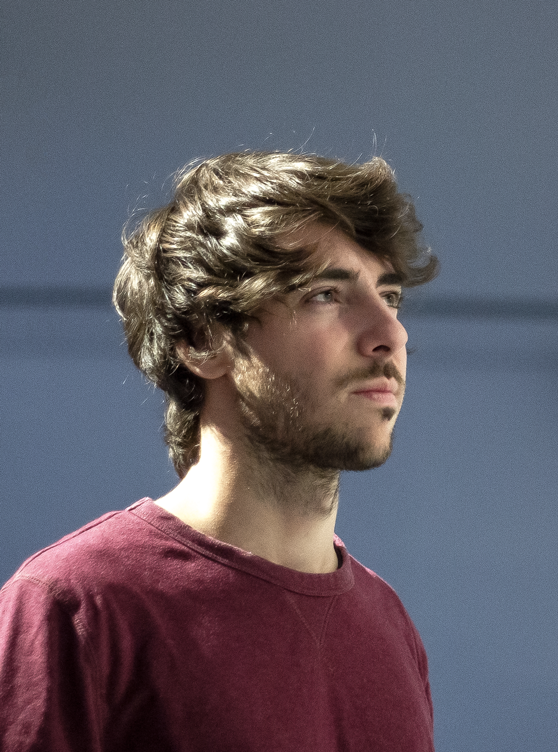
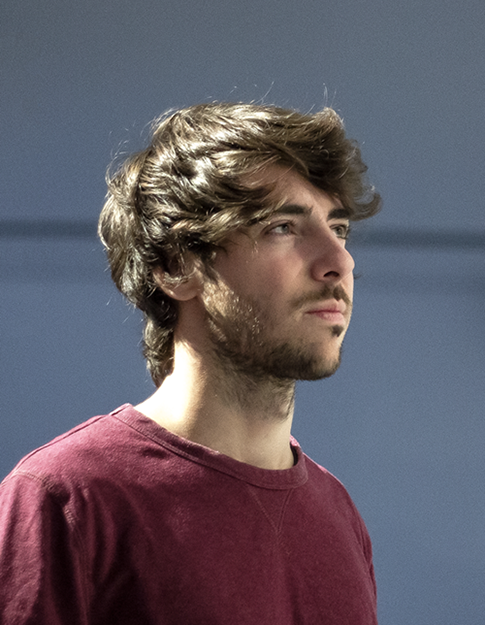
css update

diff --git a/assets/style.min.css b/assets/style.min.css
@@ -1,1 +1,1 @@
-html{box-sizing:border-box}*,*::after,*::before{box-sizing:inherit}html,body{background:black}body{padding:20px 20px 20px 20px;-webkit-font-smoothing:antialiased;font-weight:400}.container{max-width:100%;margin-left:auto;margin-right:auto;background-color:white}.container::after{clear:both;content:"";display:table}header #brand{float:left}header #brand img{margin:30px 0 0 30px;height:60px}header #nav{float:right}header #nav ul{z-index:999;position:fixed;top:40px;right:30px}header #nav ul li{display:inline}header #nav ul img{width:24px}header #nav ul li a{padding:0 10px 0 10px;text-transform:uppercase;font-size:0.7em;font-weight:700;color:black;text-decoration:none}.clearfix:after{content:"";display:table;clear:both}h1{margin-top:120px;text-align:center;font-family:"futura-pt";font-weight:400;font-style:normal;line-height:0.6em;font-size:5.5em;letter-spacing:0.1em}h1 p{margin-bottom:130px;text-align:center;font-family:"adobe-garamond-pro";font-weight:400;font-style:italic;font-size:0.55em;letter-spacing:normal}.first{padding:4em;max-width:1240px}.first .avatar{background-color:white;float:left;max-width:550px;max-width:670px;margin-right:2em;margin-bottom:4em;border-radius:4px;box-shadow:0 1px 1px rgba(0,0,0,0.1),0 8px 16px rgba(0,0,0,0.05)}.first p{font-family:"futura-pt";font-weight:400;font-style:normal;line-height:1.6em;font-size:1.5em;letter-spacing:0.5px;text-align:justify}.first .lead{margin-top:0;margin-bottom:1.6em;font-family:"adobe-garamond-pro";font-weight:400;font-style:normal;line-height:1.5em;font-size:1.8em;letter-spacing:normal;text-align:justify}.row{float:left;display:block;margin-right:2.35765%;width:100%;margin:30px 0}.row:last-child{margin-right:0}.row .row-title{float:left;display:block;margin-right:2.35765%;width:23.23176%;width:18%;padding-left:9.5em;text-align:left;color:#b0976d;text-transform:uppercase;font-size:0.85em;font-family:"futura-pt",sans-serif;font-style:normal;font-weight:500;letter-spacing:0.15em}.row .row-title:last-child{margin-right:0}.row .row-content{margin-left:8.5298%;float:left;display:block;margin-right:2.35765%;width:65.88078%}.row .row-content:last-child{margin-right:0}.first.row{margin:0 auto 4em auto;float:none}.last.row{margin-bottom:0}.row.experience{margin-bottom:0px}.row.experience .row-content>.dropdown{display:none}.row.experience .row-content>.dropdown>.dropdown-title{border-bottom:none}.row.education{display:none;margin-top:0px}.ul-col{float:left;display:block;margin-right:2.35765%;width:31.76157%;margin:0;padding:0;list-style-type:none}.ul-col:last-child{margin-right:0}.ul-col li{padding:0 10px 20px 10px;text-decoration:none}#gallery{margin-bottom:4em;width:100%;overflow:hidden;white-space:nowrap}#gallery .slides-heading p{text-align:left;color:#b0976d;text-transform:uppercase;font-size:0.6em;font-family:"futura-pt",sans-serif;font-style:normal;font-weight:500;letter-spacing:0.15em}#gallery .slides{height:447px;width:100%;overflow-x:auto;white-space:nowrap}#gallery .slide{display:inline-block;margin-left:1%;margin-right:1%;width:498px;height:auto;border-radius:4px;background-color:#fff;cursor:pointer;box-shadow:0 1px 1px rgba(0,0,0,0.1),0 8px 16px rgba(0,0,0,0.05);-webkit-transform:translateZ(0);transform:translateZ(0);-webkit-transition:box-shadow 0.3s ease;-moz-transition:box-shadow 0.3s ease;-ms-transition:box-shadow 0.3s ease;-o-transition:box-shadow 0.3s ease;transition:box-shadow 0.3s ease}#gallery .slide-media{background-size:cover;border-radius:4px 4px 0 0;height:348px}#gallery .slide:hover{-webkit-transition:box-shadow 0.3s ease;-moz-transition:box-shadow 0.3s ease;-ms-transition:box-shadow 0.3s ease;-o-transition:box-shadow 0.3s ease;transition:box-shadow 0.3s ease;box-shadow:0 1px 1px rgba(0,0,0,0.1),0 12px 22px rgba(0,0,0,0.15)}#gallery .slide-title{float:left;padding:0.7em;width:100%;font-family:"futura-pt",sans-serif;color:black;text-decoration:none;font-style:normal;font-weight:700;font-size:1.4em}#gallery .slide-position{float:right;padding:0.55em 0 0.55em 0;text-align:right;text-transform:uppercase;font-size:0.6em;font-family:"futura-pt",sans-serif;font-style:normal;font-weight:500;letter-spacing:0.15em;color:#b0976d}#gallery #slide-1{margin-left:2em}#gallery #slide-8{margin-right:2em}.sub-title{margin:0;padding:0 0 10px 0;line-height:30px;text-transform:uppercase;color:#737373}#current-position{float:left;display:block;margin-right:2.35765%;width:100%}#current-position:last-child{margin-right:0}#current-position #current-employer{float:left;display:block;margin-right:2.35765%;width:6.17215%;padding-bottom:15px}#current-position #current-employer:last-child{margin-right:0}#current-position #current-employer #employer-logo img{width:64px}#current-position #employment-details{float:left;display:block;margin-right:2.35765%;width:91.4702%;margin-left:4%;width:80%}#current-position #employment-details:last-child{margin-right:0}#current-position #employment-details #current-role strong{font-size:1em;font-size:1.2em}#current-position #job-description{float:left;display:block;margin-right:2.35765%;width:100%}#current-position #job-description:last-child{margin-right:0}#current-position #job-description p{width:80%}#work{float:left;display:block;margin-right:2.35765%;width:100%;padding:0 3%;background-color:#4c4c4c}#work:last-child{margin-right:0}#work .work-header{text-align:center;margin-top:30px}#work .work-header .work-header-bg{z-index:-1;font-size:20em;font-style:normal;font-weight:800;color:#545454}#work .work-header .work-header-title{margin-top:-260px;font-size:2.9em;text-transform:uppercase;letter-spacing:0.17em;color:white}#work .work-header .work-header-subtext{padding-bottom:100px}#work .work-header .work-header-subtext img{width:146px;margin:15 auto}#work-grid{padding:10px;width:100%;margin:0 auto}#work-grid .grid-row:after{content:" ";padding:10px}#work-grid .grid-row .grid-item{background-position:center;background-size:cover;border-radius:4px;display:block;background-color:white;cursor:pointer;box-shadow:0 1px 1px rgba(0,0,0,0.1),0 8px 16px rgba(0,0,0,0.05);-webkit-transform:translateZ(0);transform:translateZ(0);-webkit-transition:box-shadow 0.3s ease;-moz-transition:box-shadow 0.3s ease;-ms-transition:box-shadow 0.3s ease;-o-transition:box-shadow 0.3s ease;transition:box-shadow 0.3s ease}#work-grid .grid-row .grid-item img{width:100%;border-radius:4px}#work-grid .grid-row .work-overlay{margin:0;position:absolute;top:0;left:0;display:none;background-color:rgba(0,0,0,0.8);text-align:center;border-radius:4px;-webkit-transition:box-shadow 0.3s ease;-moz-transition:box-shadow 0.3s ease;-ms-transition:box-shadow 0.3s ease;-o-transition:box-shadow 0.3s ease;transition:box-shadow 0.3s ease;box-shadow:0 1px 1px rgba(0,0,0,0.1),0 12px 22px rgba(0,0,0,0.15);width:100%;height:100%}#work-grid .grid-row .work-overlay a{display:block;padding-top:34%;color:white;text-decoration:none;vertical-align:middle;font-family:"futura-pt";font-weight:400;font-style:normal;line-height:1.6em;font-size:1.4em;letter-spacing:0.5px}.overlay{position:fixed;width:100%;height:100%;top:0;left:0;background:black}.overlay .overlay-close{width:25px;height:25px;position:absolute;right:30px;top:40px;overflow:hidden;border:none;background:url(../public/cross.svg) no-repeat center center;text-indent:200%;color:transparent;outline:none;z-index:100}.overlay nav{text-align:center;position:relative;top:50%;height:60%;-webkit-transform:translateY(-50%);transform:translateY(-50%)}.overlay ul{list-style:none;padding:0;margin:0 auto;display:inline-block;height:100%;position:relative}.overlay ul li{display:block;height:20%;height:calc(100% / 5);min-height:54px;-webkit-backface-visibility:hidden;backface-visibility:hidden}.overlay ul li a{font-size:54px;font-weight:300;display:block;color:#fff;-webkit-transition:color 0.2s;transition:color 0.2s;text-decoration:none}.overlay ul li a:hover,.overlay ul li a:focus{color:#f0f0f0;text-decoration:none}.overlay-scale{visibility:hidden;opacity:0;-webkit-transform:scale(0.9);transform:scale(0.9);-webkit-transition:-webkit-transform 0.2s, opacity 0.2s, visibility 0s 0.2s;transition:transform 0.2s, opacity 0.2s, visibility 0s 0.2s}.overlay-scale.open{visibility:visible;opacity:1;-webkit-transform:scale(1);transform:scale(1);-webkit-transition:-webkit-transform 0.4s, opacity 0.4s;transition:transform 0.4s, opacity 0.4s}@media screen and (max-height: 30.5em){.overlay nav{height:70%;font-size:34px}.overlay ul li{min-height:34px}}@media screen and (max-width: 1000px){.mobile{display:block}.mobile .grid-item{float:left;display:block;margin-right:2.35765%;width:48.82117%}.mobile .grid-item:last-child{margin-right:0}.first{padding:4em 4em 0 4em}.first.row{margin-bottom:0}.avatar{min-width:100%;margin-bottom:2em !important}.desktop{display:none}p{float:none;clear:both}.slides-heading,.slide-title{font-size:2em}.slides-heading{margin:0 1em}.row-title{font-size:2em;width:100% !important;text-align:left !important}.row-content{margin-left:3.58% !important}.ul-col{font-size:2em;width:auto}}@media screen and (min-width: 1001px){.mobile{display:none}.desktop{display:block}.desktop .grid-item{float:left;display:block;margin-right:2.35765%;width:31.76157%}.desktop .grid-item:last-child{margin-right:0}.slides-heading{margin:0 2em}}
+html{box-sizing:border-box}*,*::after,*::before{box-sizing:inherit}html,body{background:black}body{padding:20px 20px 20px 20px;-webkit-font-smoothing:antialiased;font-weight:400}.container{max-width:100%;margin-left:auto;margin-right:auto;background-color:white}.container::after{clear:both;content:"";display:table}header #brand{float:left}header #brand img{margin:30px 0 0 30px;height:60px}header #nav{float:right}header #nav ul{z-index:998;position:fixed;top:40px;right:30px}header #nav ul li{display:inline}header #nav ul img{width:24px}header #nav ul li a{padding:0 10px 0 10px;text-transform:uppercase;font-size:0.7em;font-weight:700;color:black;text-decoration:none}.clearfix:after{content:"";display:table;clear:both}h1{margin-top:120px;text-align:center;font-family:"futura-pt";font-weight:400;font-style:normal;line-height:0.6em;font-size:5.5em;letter-spacing:0.1em}h1 p{margin-bottom:130px;text-align:center;font-family:"adobe-garamond-pro";font-weight:400;font-style:italic;font-size:0.55em;letter-spacing:normal}.first{padding:4em;max-width:1100px}.first .avatar{background-color:white;float:left;max-width:485px;max-width:auto;margin-right:2em;margin-bottom:1em;border-radius:4px;box-shadow:0 1px 1px rgba(0,0,0,0.1),0 8px 16px rgba(0,0,0,0.05)}.first p{font-family:"futura-pt";font-weight:400;font-style:normal;line-height:1.55em;font-size:1.3em;letter-spacing:0.5px;text-align:justify}.first .lead{margin-top:0.3em;margin-bottom:1.6em;font-family:"adobe-garamond-pro";font-weight:400;font-style:normal;line-height:1.45em;font-size:1.65em;letter-spacing:normal;text-align:justify}.row{float:left;display:block;margin-right:2.35765%;width:100%;margin:30px 0}.row:last-child{margin-right:0}.row .row-title{float:left;display:block;margin-right:2.35765%;width:23.23176%;width:18%;padding-left:9.5em;text-align:left;color:#b0976d;text-transform:uppercase;font-size:0.85em;font-family:"futura-pt",sans-serif;font-style:normal;font-weight:500;letter-spacing:0.15em}.row .row-title:last-child{margin-right:0}.row .row-content{margin-left:8.5298%;float:left;display:block;margin-right:2.35765%;width:65.88078%}.row .row-content:last-child{margin-right:0}.first.row{margin:0 auto 0 auto;float:none}.last.row{margin-bottom:0}.row.experience{margin-bottom:0px}.row.experience .row-content>.dropdown{display:none}.row.experience .row-content>.dropdown>.dropdown-title{border-bottom:none}.row.education{display:none;margin-top:0px}.ul-col{float:left;display:block;margin-right:2.35765%;width:31.76157%;margin:0;padding:0;list-style-type:none}.ul-col:last-child{margin-right:0}.ul-col li{padding:0 10px 20px 10px;text-decoration:none}#gallery{margin-bottom:4em;width:100%;overflow:hidden;white-space:nowrap}#gallery .slides-heading p{color:black;font-family:"adobe-garamond-pro";font-weight:400;font-style:normal;font-size:2.5em;letter-spacing:normal;margin:1em 0 0 0}#gallery .bar{width:14px;height:2px;background:#b0976d;margin:2em 0}#gallery .slides{height:447px;width:100%;overflow-x:auto;white-space:nowrap}#gallery .slide{display:inline-block;margin-left:1%;margin-right:1%;width:498px;height:auto;border-radius:4px;background-color:#fff;cursor:pointer;box-shadow:0 1px 1px rgba(0,0,0,0.1),0 8px 16px rgba(0,0,0,0.05);-webkit-transform:translateZ(0);transform:translateZ(0);-webkit-transition:box-shadow 0.3s ease;-moz-transition:box-shadow 0.3s ease;-ms-transition:box-shadow 0.3s ease;-o-transition:box-shadow 0.3s ease;transition:box-shadow 0.3s ease}#gallery .slide-media{background-size:cover;border-radius:4px 4px 0 0;height:348px}#gallery .slide:hover{-webkit-transition:box-shadow 0.3s ease;-moz-transition:box-shadow 0.3s ease;-ms-transition:box-shadow 0.3s ease;-o-transition:box-shadow 0.3s ease;transition:box-shadow 0.3s ease;box-shadow:0 1px 1px rgba(0,0,0,0.1),0 12px 22px rgba(0,0,0,0.15)}#gallery .slide-title{float:left;padding:0.7em;width:100%;font-family:"futura-pt",sans-serif;color:black;text-decoration:none;font-style:normal;font-weight:700;font-size:1.4em}#gallery .slide-position{float:right;padding:0.55em 0 0.55em 0;text-align:right;text-transform:uppercase;font-size:0.6em;font-family:"futura-pt",sans-serif;font-style:normal;font-weight:500;letter-spacing:0.15em;color:#b0976d}#gallery #slide-1{margin-left:2em}#gallery #slide-8{margin-right:2em}.sub-title{margin:0;padding:0 0 10px 0;line-height:30px;text-transform:uppercase;color:#737373}#current-position{float:left;display:block;margin-right:2.35765%;width:100%}#current-position:last-child{margin-right:0}#current-position #current-employer{float:left;display:block;margin-right:2.35765%;width:6.17215%;padding-bottom:15px}#current-position #current-employer:last-child{margin-right:0}#current-position #current-employer #employer-logo img{width:64px}#current-position #employment-details{float:left;display:block;margin-right:2.35765%;width:91.4702%;margin-left:4%;width:80%}#current-position #employment-details:last-child{margin-right:0}#current-position #employment-details #current-role strong{font-size:1em;font-size:1.2em}#current-position #job-description{float:left;display:block;margin-right:2.35765%;width:100%}#current-position #job-description:last-child{margin-right:0}#current-position #job-description p{width:80%}#work{float:left;display:block;margin-right:2.35765%;width:100%;padding:0 3%;background-color:#4c4c4c}#work:last-child{margin-right:0}#work .work-header{text-align:center;margin-top:30px}#work .work-header .work-header-bg{z-index:-1;font-size:20em;font-style:normal;font-weight:800;color:#545454}#work .work-header .work-header-title{margin-top:-260px;font-size:2.9em;text-transform:uppercase;letter-spacing:0.17em;color:white}#work .work-header .work-header-subtext{padding-bottom:100px}#work .work-header .work-header-subtext img{width:146px;margin:15 auto}#work-grid{padding:10px;width:100%;margin:0 auto}#work-grid .grid-row:after{content:" ";padding:10px}#work-grid .grid-row .grid-item{background-position:center;background-size:cover;border-radius:4px;display:block;background-color:white;cursor:pointer;box-shadow:0 1px 1px rgba(0,0,0,0.1),0 8px 16px rgba(0,0,0,0.05);-webkit-transform:translateZ(0);transform:translateZ(0);-webkit-transition:box-shadow 0.3s ease;-moz-transition:box-shadow 0.3s ease;-ms-transition:box-shadow 0.3s ease;-o-transition:box-shadow 0.3s ease;transition:box-shadow 0.3s ease}#work-grid .grid-row .grid-item img{width:100%;border-radius:4px}#work-grid .grid-row .work-overlay{margin:0;position:absolute;top:0;left:0;display:none;background-color:rgba(0,0,0,0.8);text-align:center;border-radius:4px;-webkit-transition:box-shadow 0.3s ease;-moz-transition:box-shadow 0.3s ease;-ms-transition:box-shadow 0.3s ease;-o-transition:box-shadow 0.3s ease;transition:box-shadow 0.3s ease;box-shadow:0 1px 1px rgba(0,0,0,0.1),0 12px 22px rgba(0,0,0,0.15);width:100%;height:100%}#work-grid .grid-row .work-overlay a{display:block;padding-top:34%;color:white;text-decoration:none;vertical-align:middle;font-family:"futura-pt";font-weight:400;font-style:normal;line-height:1.6em;font-size:1.4em;letter-spacing:0.5px}.overlay{position:fixed;width:100%;height:100%;top:0;left:0;background:black}.overlay .overlay-close{width:25px;height:25px;position:absolute;right:40px;top:50px;overflow:hidden;border:none;background:url(../public/cross.svg) no-repeat center center;text-indent:200%;color:transparent;outline:none}.overlay nav{text-align:center;position:relative;top:50%;height:60%;-webkit-transform:translateY(-50%);transform:translateY(-50%)}.overlay ul{list-style:none;padding:0;margin:0 auto;display:inline-block;height:100%;position:relative}.overlay ul li{display:block;height:20%;height:calc(100% / 5);min-height:54px;-webkit-backface-visibility:hidden;backface-visibility:hidden}.overlay ul li a{font-size:54px;font-weight:300;display:block;color:#fff;-webkit-transition:color 0.2s;transition:color 0.2s;text-decoration:none}.overlay ul li a:hover,.overlay ul li a:focus{color:#b0976d;text-decoration:none}.overlay-scale{visibility:hidden;opacity:0;-webkit-transform:scale(0.9);transform:scale(0.9);-webkit-transition:-webkit-transform 0.2s, opacity 0.2s, visibility 0s 0.2s;transition:transform 0.2s, opacity 0.2s, visibility 0s 0.2s}.overlay-scale.open{z-index:999;visibility:visible;opacity:1;-webkit-transform:scale(1);transform:scale(1);-webkit-transition:-webkit-transform 0.4s, opacity 0.4s;transition:transform 0.4s, opacity 0.4s}@media screen and (max-height: 30.5em){.overlay nav{height:70%;font-size:34px}.overlay ul li{min-height:34px}}@media screen and (max-width: 1000px){.mobile{display:block}.mobile .grid-item{float:left;display:block;margin-right:2.35765%;width:48.82117%}.mobile .grid-item:last-child{margin-right:0}.first{padding:4em 4em 0 4em}.first.row{margin-bottom:0}.avatar{min-width:100%;margin-bottom:2em !important}.desktop{display:none}p{float:none;clear:both}.slides-heading,.slide-title{font-size:2em}.slides-heading{margin:0 1em}.row-title{font-size:2em;width:100% !important;text-align:left !important}.row-content{margin-left:3.58% !important}.ul-col{font-size:2em;width:auto}}@media screen and (min-width: 1001px){.mobile{display:none}.desktop{display:block}.desktop .grid-item{float:left;display:block;margin-right:2.35765%;width:31.76157%}.desktop .grid-item:last-child{margin-right:0}.slides-heading{margin:0 2em}}

diff --git a/assets/style.scss b/assets/style.scss
@@ -18,7 +18,6 @@ body {
     background-color: white;
 }
 
-
 header {
     #brand {
         float: left;
@@ -34,7 +33,7 @@ header {
 
 		ul {
 			@include inline-nav();
-            z-index: 999;
+            z-index: 998;
             position: fixed;
             top: 40px;
             right: 30px;
@@ -88,15 +87,15 @@ h1 {
 
 .first{
     padding: 4em;
-    max-width: 1240px;
+    max-width: 1100px;
 
     .avatar {
         background-color: white;
         float: left;
-        max-width: 550px;
-        max-width: 670px;
+        max-width: 485px;
+        max-width: auto;
         margin-right: 2em;
-        margin-bottom: 4em;
+        margin-bottom: 1em;
         border-radius: 4px;
         box-shadow: 0 1px 1px rgba(0, 0, 0, 0.1), 0 8px 16px rgba(0, 0, 0, 0.05);
     }
@@ -105,20 +104,20 @@ h1 {
         font-family: "futura-pt";
         font-weight: 400;
         font-style: normal;
-        line-height: 1.6em;
-        font-size: 1.5em;
+        line-height: 1.55em;
+        font-size: 1.3em;
         letter-spacing: 0.5px;
         text-align: justify;
     }
 
     .lead {
-        margin-top: 0;
+        margin-top: 0.3em;
         margin-bottom: 1.6em;
         font-family: "adobe-garamond-pro";
         font-weight: 400;
         font-style: normal;
-        line-height: 1.5em;
-        font-size: 1.8em;
+        line-height: 1.45em;
+        font-size: 1.65em;
         letter-spacing: normal;
         text-align: justify;
     }
@@ -135,7 +134,7 @@ h1 {
         text-align: left;
         color: $heading-color;
         text-transform: uppercase;
-				font-size: 0.85em;
+		font-size: 0.85em;
         font-family: "futura-pt",sans-serif;
         font-style: normal;
         font-weight: 500;
@@ -149,7 +148,7 @@ h1 {
 }
 
 .first.row {
-    margin: 0 auto 4em auto;
+    margin: 0 auto 0 auto;
     float: none;
 }
 
@@ -195,17 +194,21 @@ h1 {
     overflow: hidden;
     white-space: nowrap;
 
-    .slides-heading {
-      p {
-        text-align: left;
-        color: $heading-color;
-        text-transform: uppercase;
-				font-size: 0.6em;
-        font-family: "futura-pt",sans-serif;
-        font-style: normal;
-        font-weight: 500;
-        letter-spacing: 0.15em;
-      }
+    .slides-heading p {
+            color: black;
+            font-family: "adobe-garamond-pro";
+            font-weight: 400;
+            font-style: normal;
+            font-size: 2.5em;
+            letter-spacing: normal;
+            margin: 1em 0 0 0;
+    }
+
+    .bar {
+        width: 14px;
+        height: 2px;
+        background: #b0976d;
+        margin: 2em 0;
     }
 
     .slides {
@@ -254,28 +257,28 @@ h1 {
           }
 
 	    .slide-title {
-				float: left;
-        padding: 0.7em;
-        width: 100%;
-        font-family: "futura-pt",sans-serif;
-        color: black;
-        text-decoration: none;
-        font-style: normal;
-        font-weight: 700;
-        font-size: 1.4em;
+    		float: left;
+            padding: 0.7em;
+            width: 100%;
+            font-family: "futura-pt",sans-serif;
+            color: black;
+            text-decoration: none;
+            font-style: normal;
+            font-weight: 700;
+            font-size: 1.4em;
       }
 
 			.slide-position {
-        float: right;
-        padding: 0.55em 0 0.55em 0;
-        text-align: right;
-        text-transform: uppercase;
-				font-size: 0.6em;
-        font-family: "futura-pt",sans-serif;
-        font-style: normal;
-        font-weight: 500;
-        letter-spacing: 0.15em;
-				color: $heading-color;
+                float: right;
+                padding: 0.55em 0 0.55em 0;
+                text-align: right;
+                text-transform: uppercase;
+        		font-size: 0.6em;
+                font-family: "futura-pt",sans-serif;
+                font-style: normal;
+                font-weight: 500;
+                letter-spacing: 0.15em;
+        		color: $heading-color;
 			}
 
     #slide-1 {
@@ -339,16 +342,17 @@ h1 {
     @include span-columns(12);
     padding: 0 3%;
 	background-color: $work-background-color;
+    // background-color: #23252B;
 
     .work-header {
-    	text-align: center;
-      margin-top: 30px;
+        text-align: center;
+        margin-top: 30px;
 
     	.work-header-bg {
-    		z-index: -1;
+    	    z-index: -1;
     		font-size: 20em;
-        font-style: normal;
-        font-weight: 800;
+            font-style: normal;
+            font-weight: 800;
     		color: #545454;
     	}
 
@@ -461,15 +465,14 @@ h1 {
     width: 25px;
     height: 25px;
     position: absolute;
-    right: 30px;
-    top: 40px;
+    right: 40px;
+    top: 50px;
     overflow: hidden;
     border: none;
     background: url(../public/cross.svg) no-repeat center center;
     text-indent: 200%;
     color: transparent;
     outline: none;
-    z-index: 100;
 }
 
 /* Menu style */
@@ -512,7 +515,7 @@ h1 {
 
 .overlay ul li a:hover,
 .overlay ul li a:focus {
-    color: #f0f0f0;
+    color: #b0976d;
     text-decoration: none;
 }
 
@@ -527,6 +530,7 @@ h1 {
 }
 
 .overlay-scale.open {
+    z-index: 999;
     visibility: visible;
     opacity: 1;
     -webkit-transform: scale(1);
@@ -534,9 +538,6 @@ h1 {
     -webkit-transition: -webkit-transform 0.4s, opacity 0.4s;
     transition: transform 0.4s, opacity 0.4s;
 }
-
-
-
 
 @media screen and (max-height: 30.5em) {
     .overlay nav {

diff --git a/index.html b/index.html
@@ -7,7 +7,7 @@
     <link rel="stylesheet" href="https://maxcdn.bootstrapcdn.com/font-awesome/4.4.0/css/font-awesome.min.css"> -->
 </head>
 
-<script src="https://use.typekit.net/bmo8xdy.js"></script>
+<script src="https://use.typekit.net/zdf2gkr.js"></script>
 <script>try{Typekit.load({ async: true });}catch(e){}</script>
 
 <body class="tk-futura-pt">
@@ -44,7 +44,7 @@
         </p>
 
 
-        <img class="avatar mobile" src="/public/axel-avatar.png">
+        <img class="avatar mobile" src="public/axel-avatar.png">
 
         <p>
             His passion for flawlessly executed and engaging design is bolstered by his obsession with pixel perfection and usability. He have a hunger for the latest innovations, and continuously use what he learn to push the boundaries of technology and optimize user experience.
@@ -59,7 +59,13 @@
     <div class="row">
         <div id="gallery">
             <div class="slides-heading">
-                <p>Projects</p>
+                <p>
+                    I Work On
+                    <br>
+                    Great Projects
+                </p>
+                <div class="bar">
+                </div>
             </div>
 
         <div class="slides">

diff --git a/assets/main.js b/assets/main.js
@@ -27,14 +27,6 @@
         $(this).find('.slide-overlay').fadeOut(250)
     })
 
-
-    // $('.slide').on('mouseenter', function(e) {
-    //     $(this).find('.slide-overlay').fadeIn(250)
-    // }).on('mouseleave', function(e) {
-    //     $(this).find('.slide-overlay').fadeOut(250)
-    // })
-
-
     $('.dropdown > .dropdown-title').click(function(e) {
         var $content = $(this).siblings('.dropdown-content')
         $content.is(':visible')
